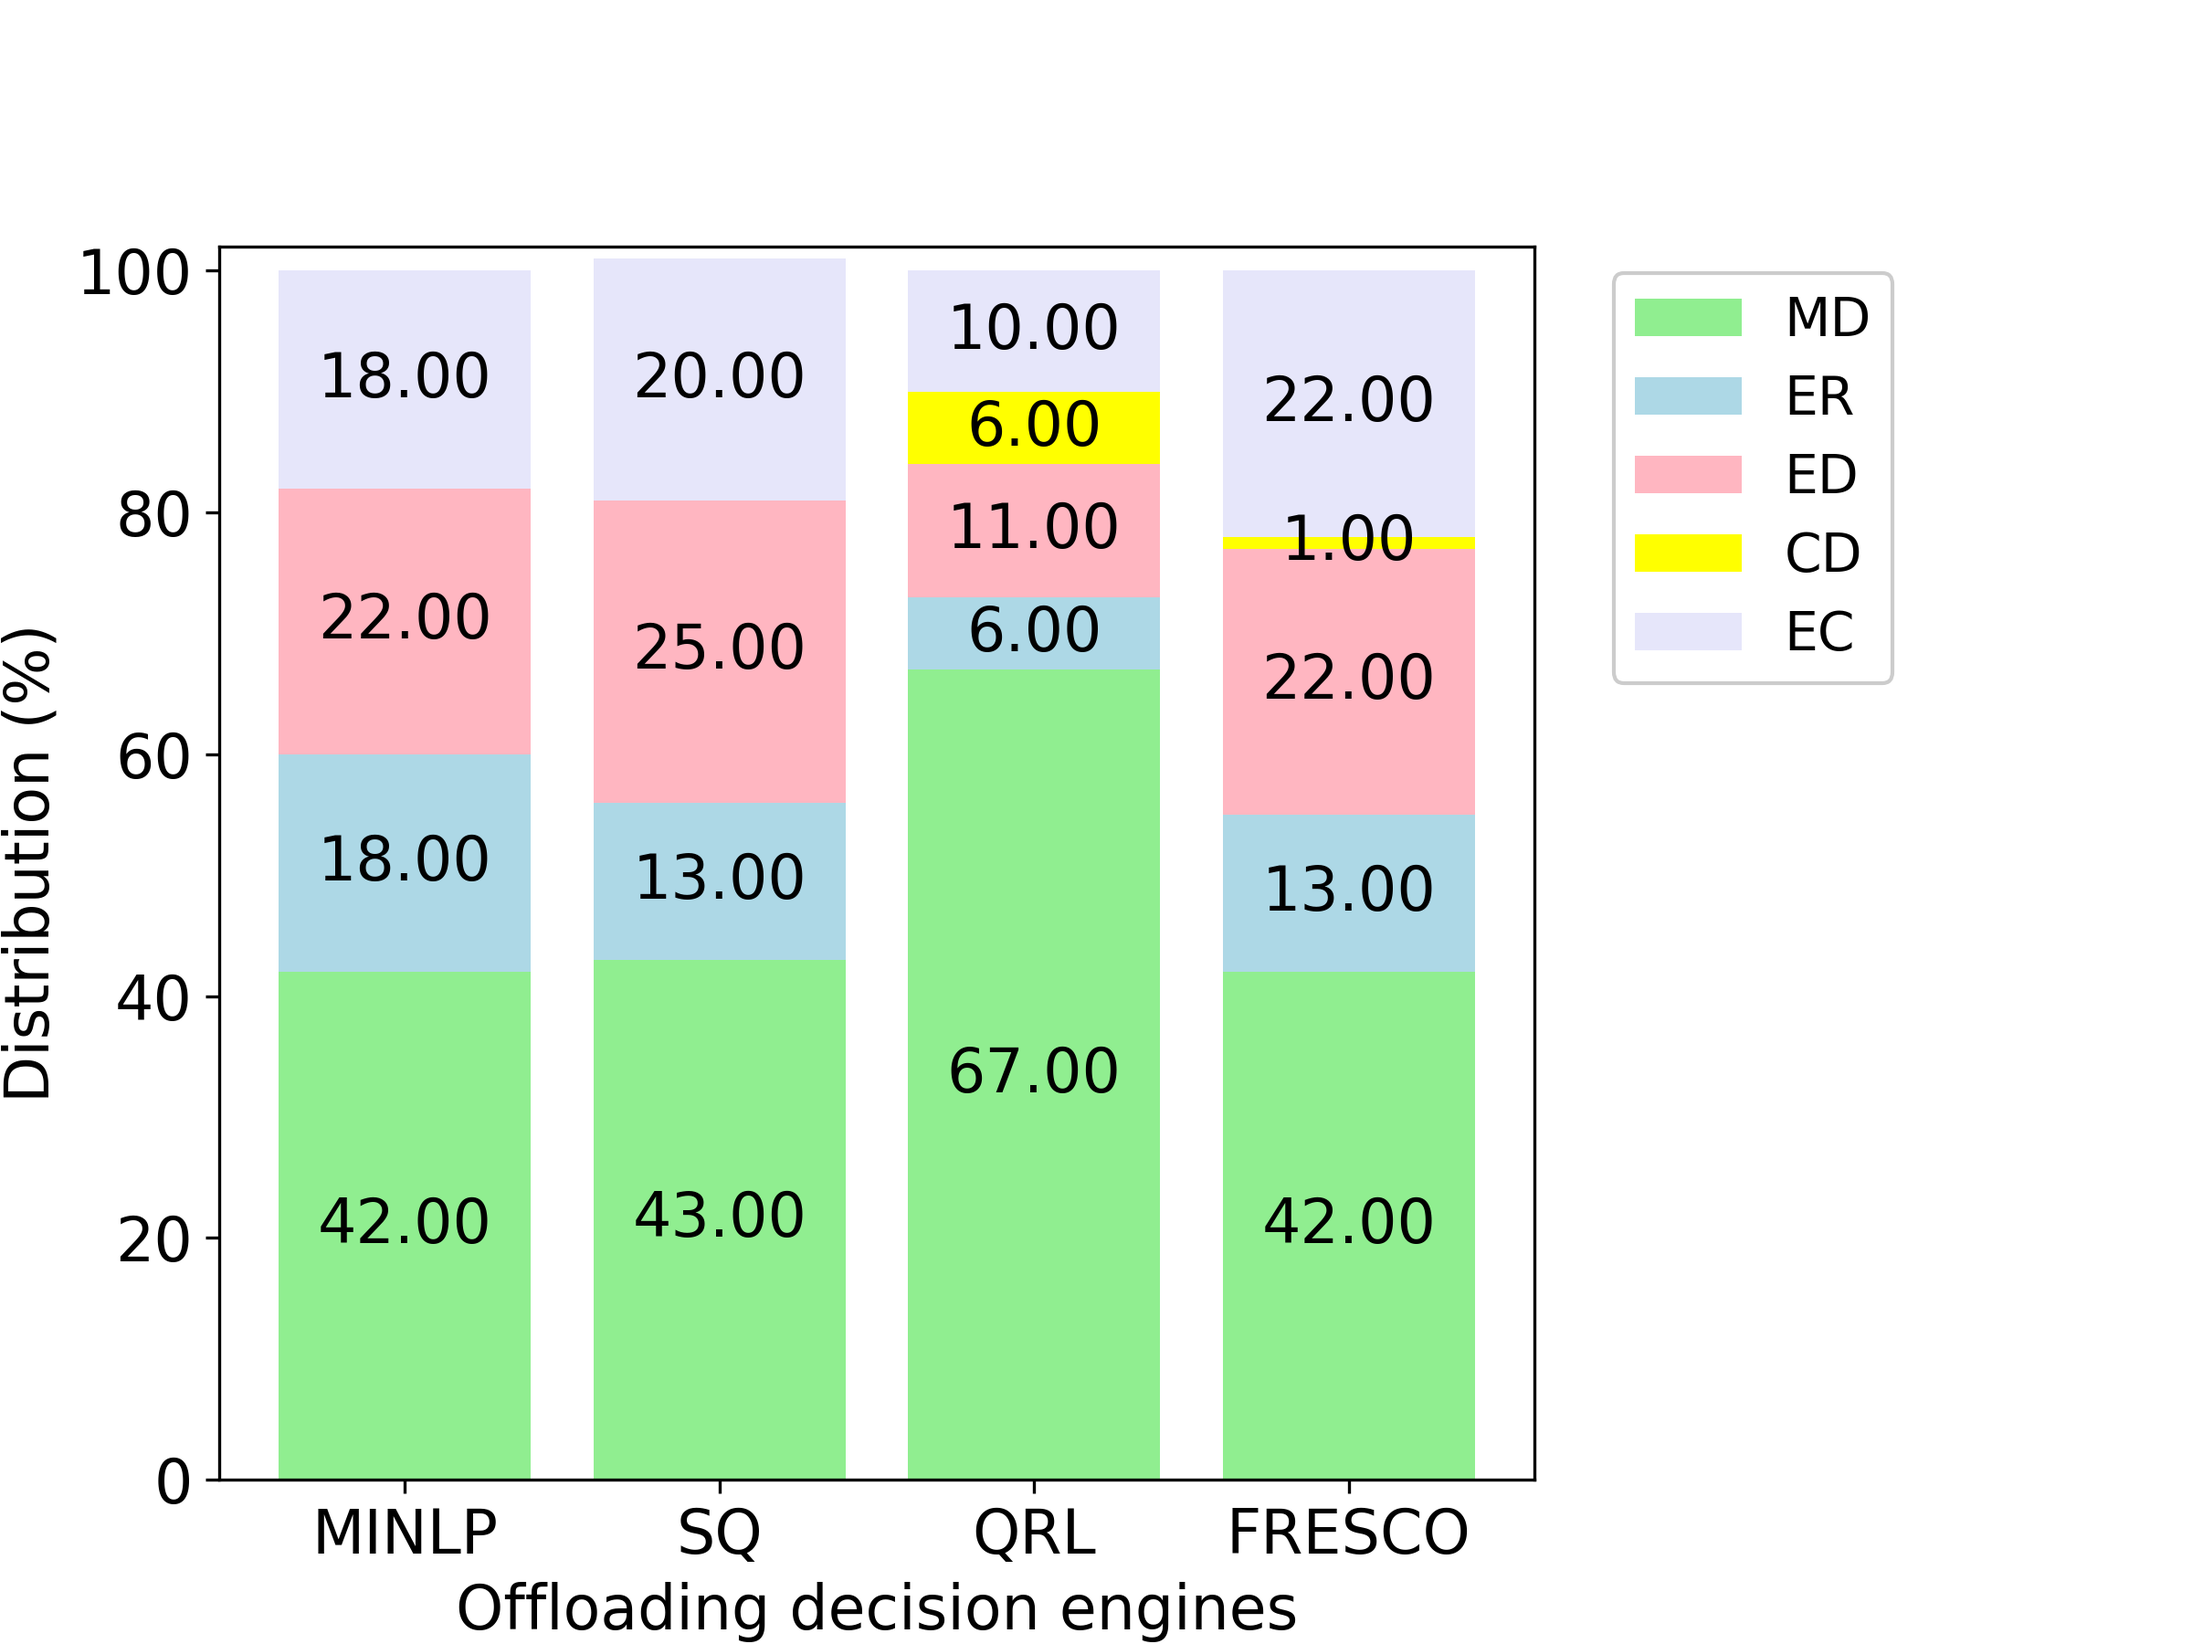
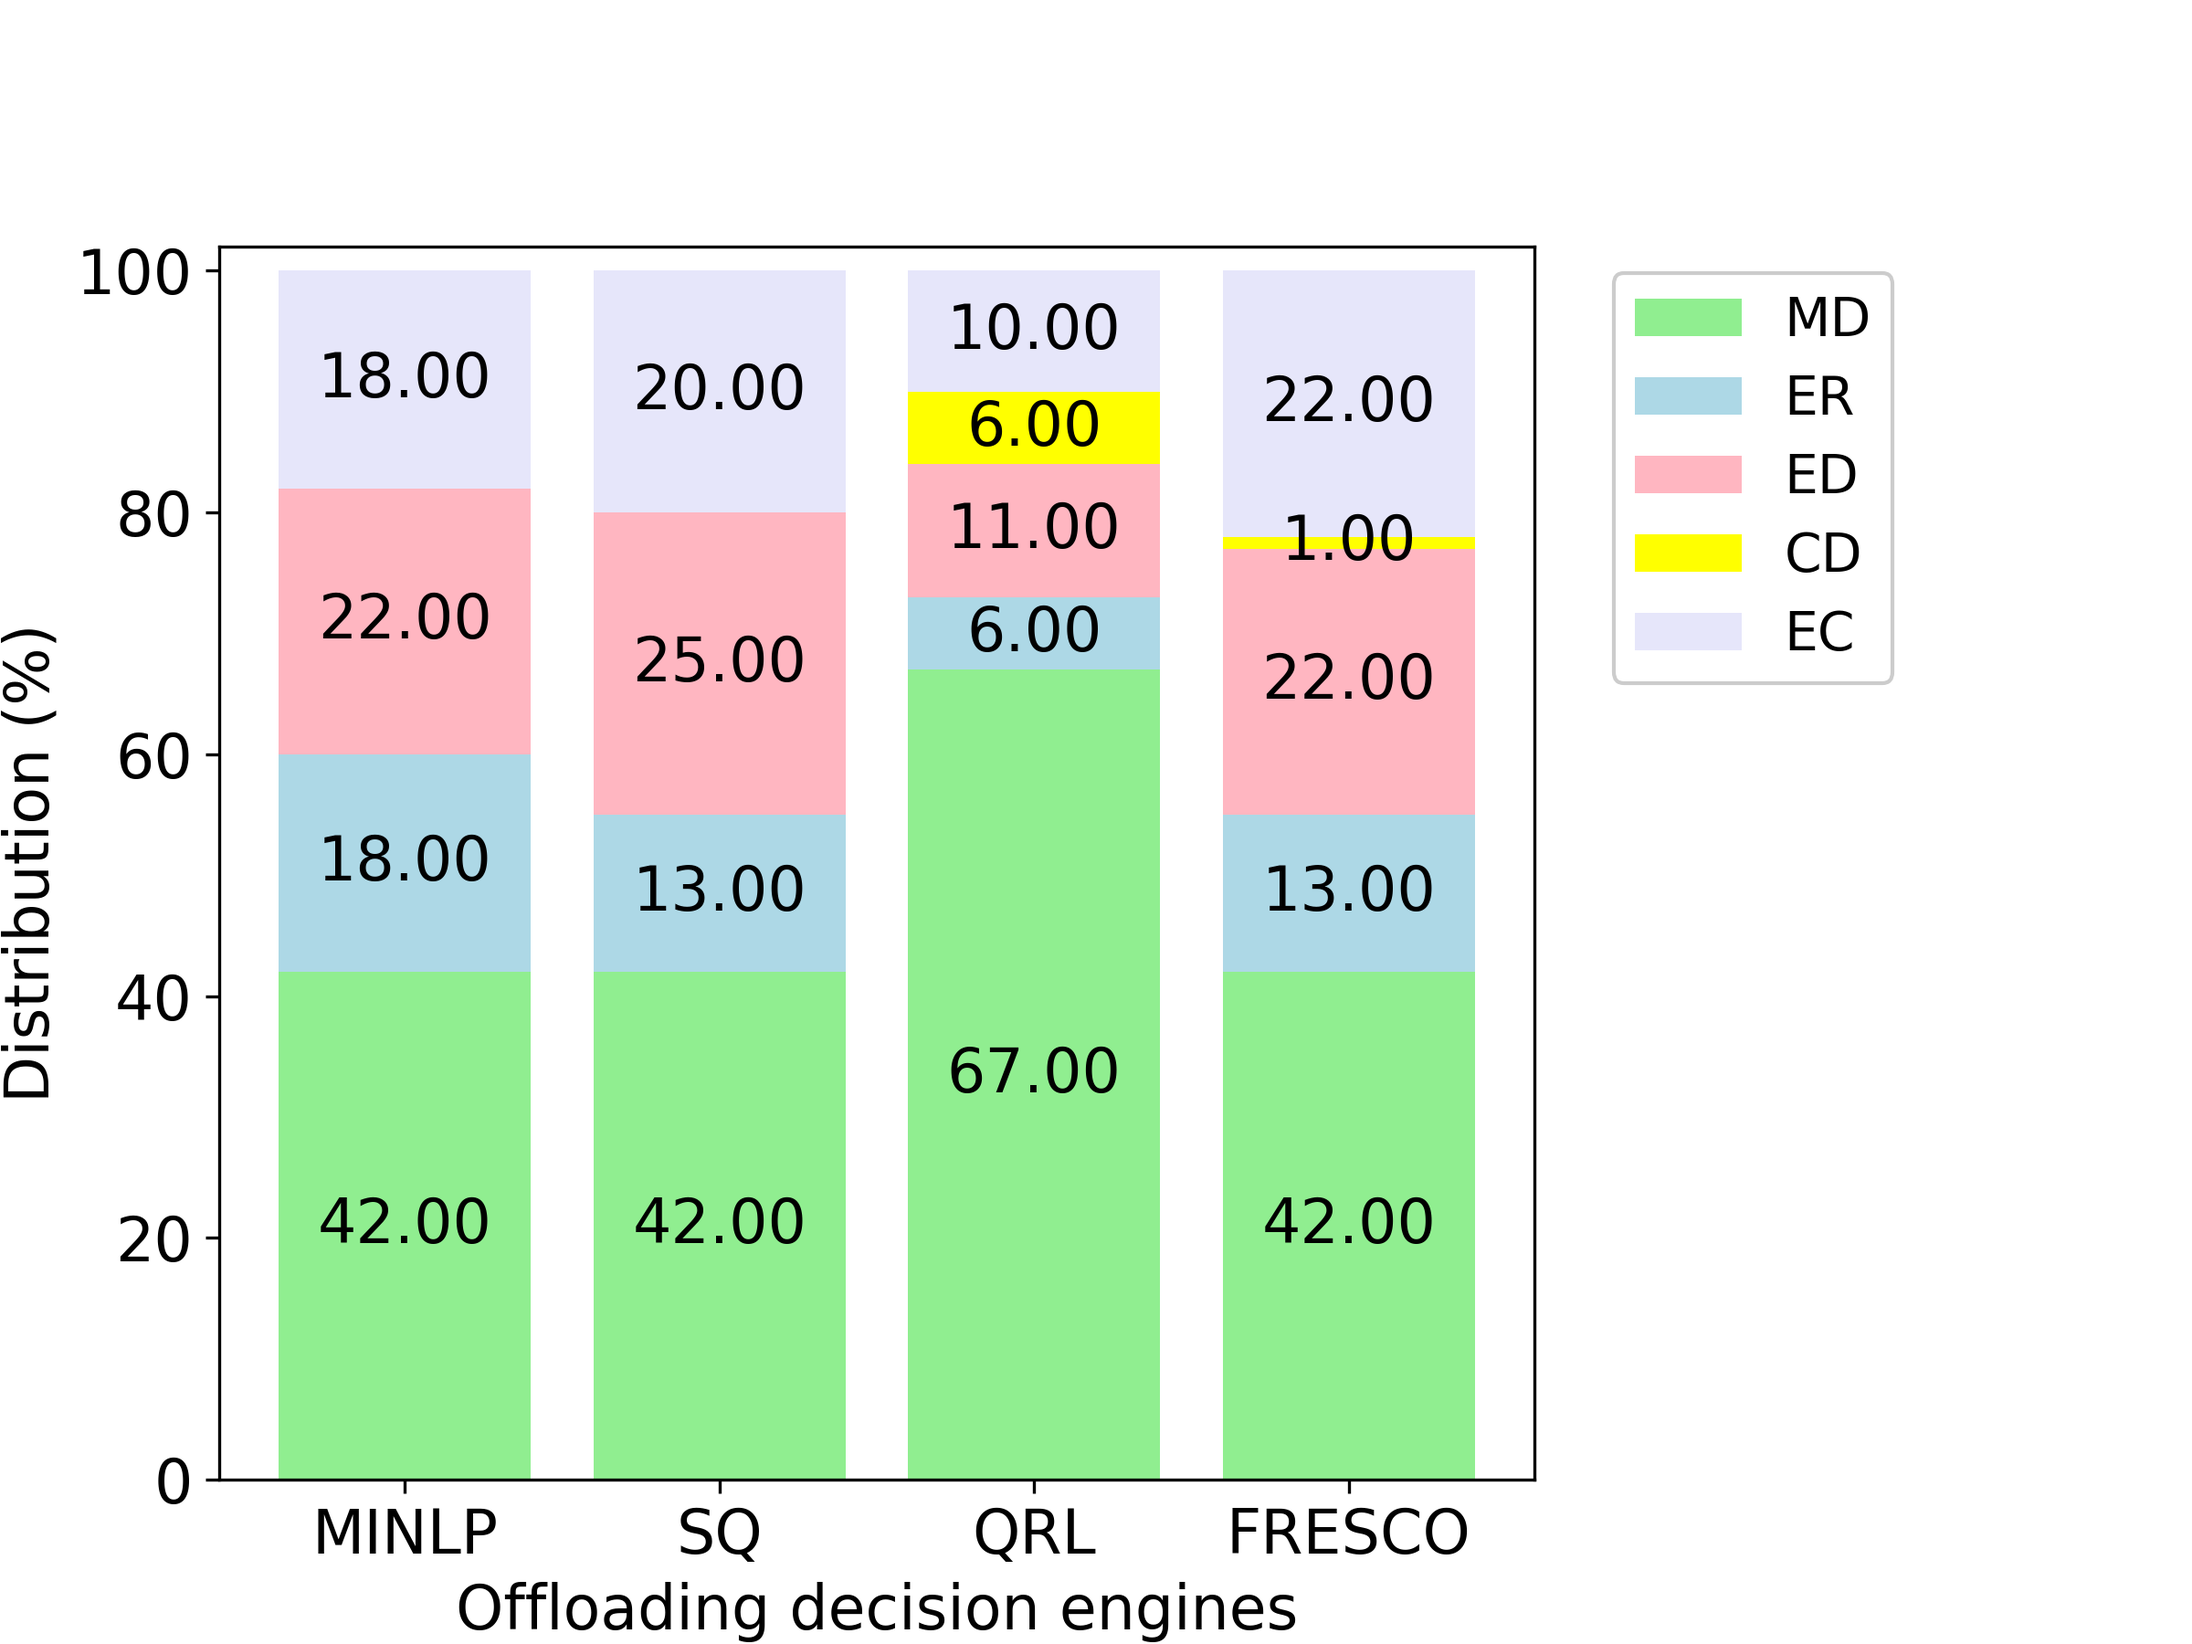
Update offoading distribution sum logic

diff --git a/src/results.py b/src/results.py
@@ -237,12 +237,26 @@ def plot_offloading_distributions (save_dir=None):
         else:
           matched = re.search(regex_ex, line)
           if matched:
-            result[ode_n][app_n]["ER"] = float (matched.group (2))
-            result[ode_n][app_n]["ED"] = float (matched.group (4))
-            result[ode_n][app_n]["EC"] = float (matched.group (6))
-            result[ode_n][app_n]["CD"] = float (matched.group (8))
-            result[ode_n][app_n]["MD"] = float (matched.group (10))
+              # Parse values
+              values = {
+                "ER": float(matched.group(2)),
+                "ED": float(matched.group(4)),
+                "EC": float(matched.group(6)),
+                "CD": float(matched.group(8)),
+                "MD": float(matched.group(10))
+              }
 
+              total = round(sum(values.values()))
+              if total == 99 or total == 101:
+              # Find key with the largest value
+                  max_key = max(values, key=values.get)
+                  if total == 99:
+                      values[max_key] += 1.0
+                  elif total == 101:
+                      values[max_key] -= 1.0
+              
+              # Assign corrected values
+              result[ode_n][app_n] = values
   # print (result)
   # exit ()
   for app in app_names:
@@ -263,6 +277,10 @@ def plot_offloading_distributions (save_dir=None):
 
     fig = plt.figure(figsize = (8, 6))
     ax = fig.add_axes([0.1, 0.1, 0.6, 0.75])
+    print(f"--- {app} ---")
+    for i, ode in enumerate(ode_names):
+        total = sum(result[ode][app].values())
+        print(f"{ode}: {result[ode][app]} (Sum: {total})")
 
     stacked_bar(
           data,
